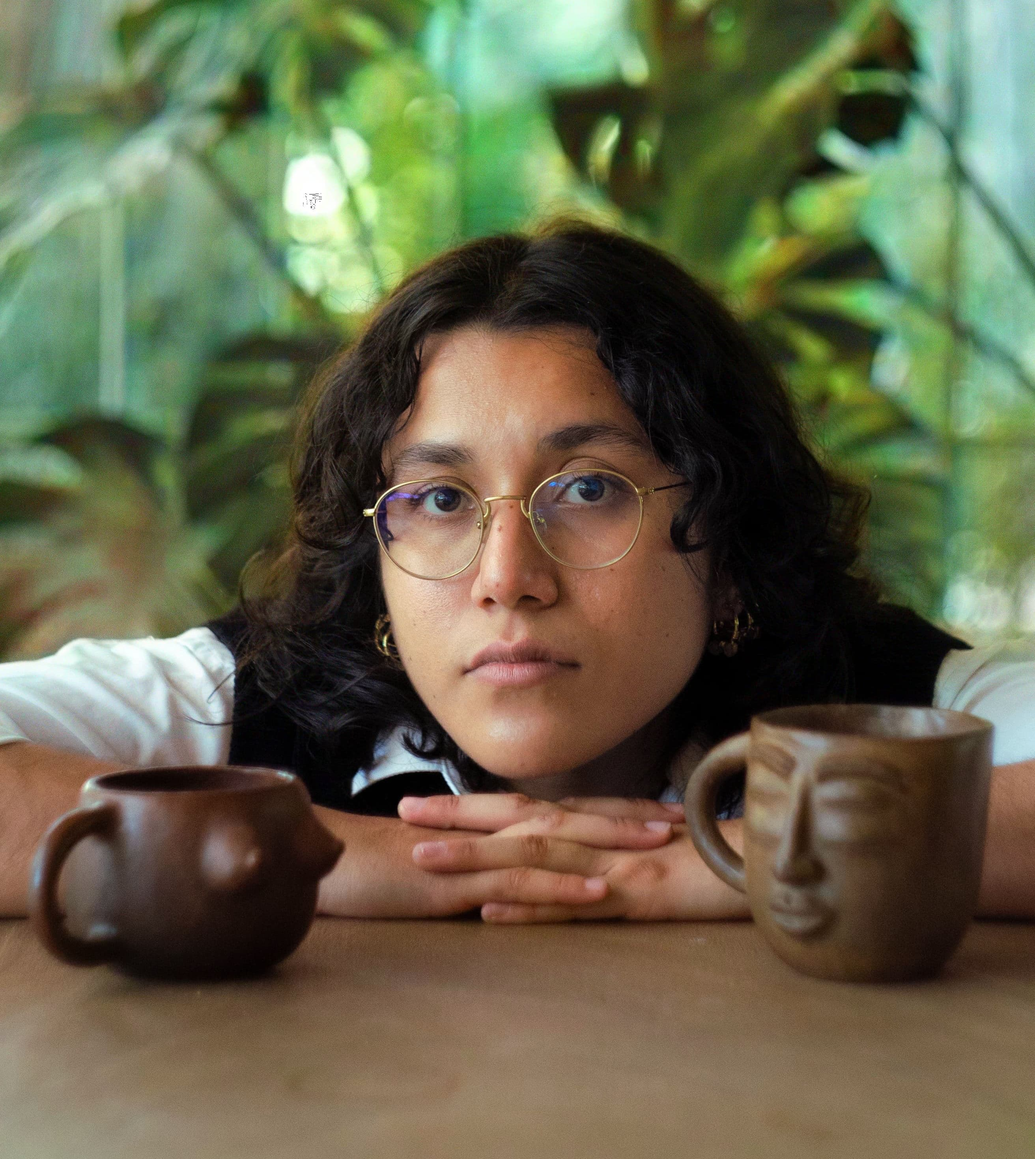
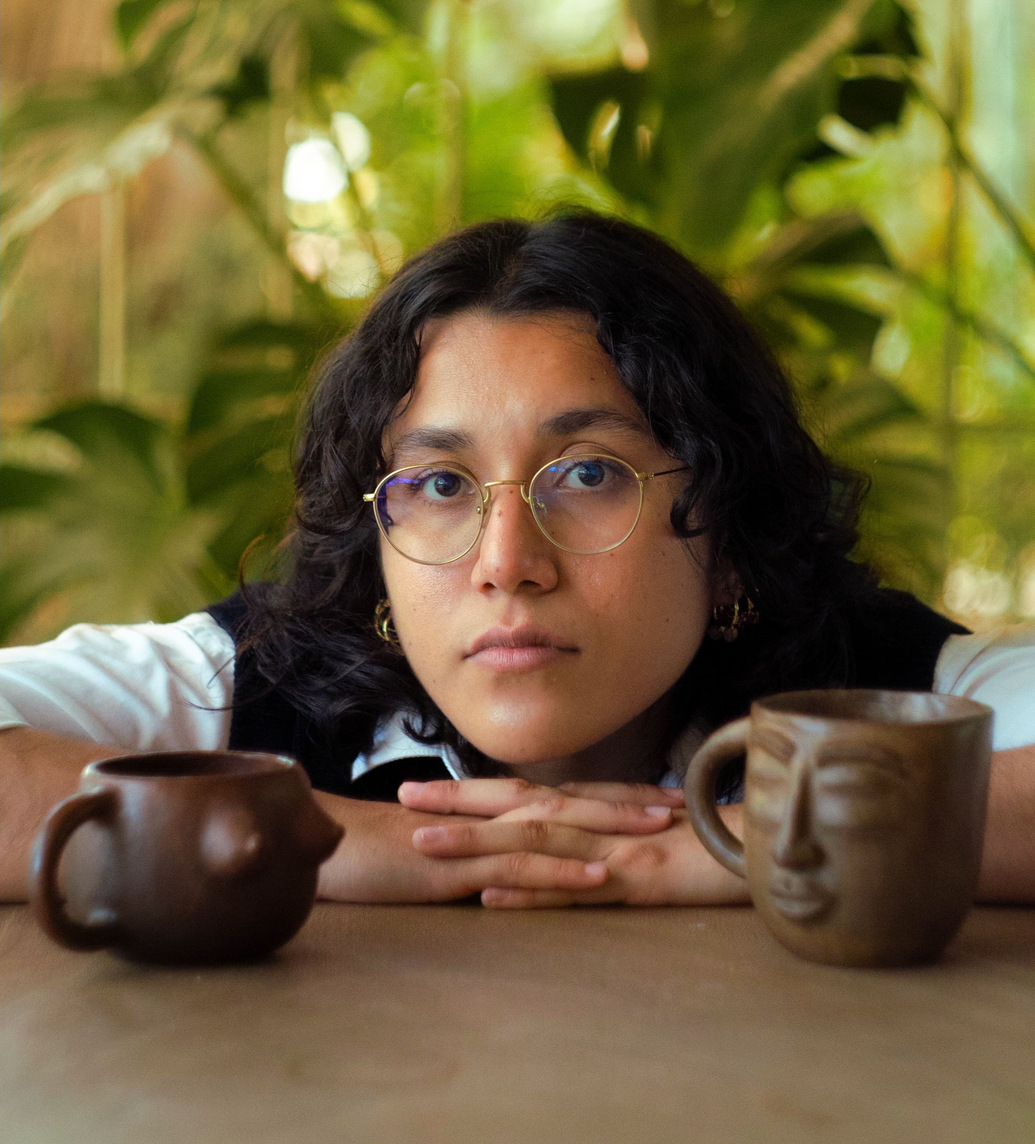
style: change primary colors to the original ones.
- Add favicon.
- Add <meta name="description">

diff --git a/src/styles/global.css b/src/styles/global.css
@@ -1,10 +1,14 @@
 @import "tailwindcss";
 
 @theme {
-  --color-primary: #99EEBB;
+  --color-primary: #BFD000;
   --color-light: #e7eFdF;
-  --color-dark: #001111;
-  --color-brown: #342223;
+  --color-dark: #111100;
+}
+
+::selection {
+	color: var(--color-dark);
+	background: var(--color-primary);
 }
 
 html,
